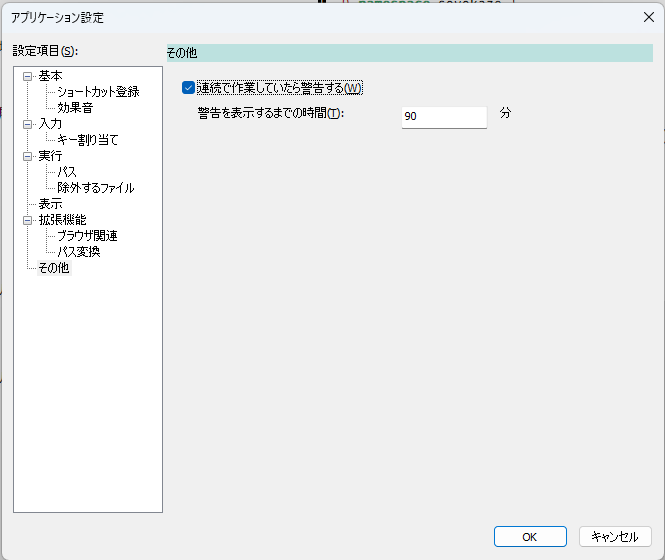
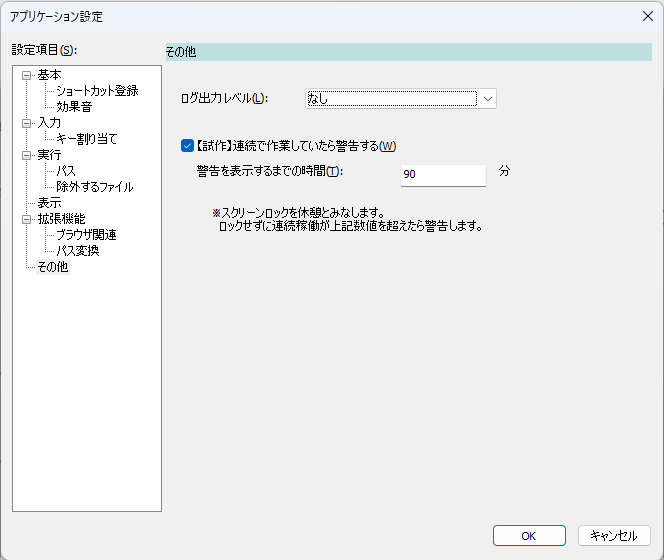
update help

diff --git a/doc/help.md b/doc/help.md
@@ -690,6 +690,20 @@ PCの性能によっては、途中で打ち切らないと、入力時のレス
 
 ![](../image/appsetting-other.png)
 
+
+- `ログ出力レベル`
+  - ログファイルへの出力対象とするログ種別を選択することができる
+  - 下のものほど情報量が多くなる
+
+|選択肢|説明|
+|--|----|
+|なし|ログを一切出力しない|
+|エラー|エラーログのみ出力する|
+|警告|エラーと警告ログを出力する|
+|通常|エラーと警告と通常ログを出力する|
+|デバッグ|デバッグ用出力も含めたすべてのログを出力する|
+
+
 - `連続で作業していたら警告する`
   - チェックすると、`警告を表示するまでの時間`で設定した時刻を超えて連続稼働(スクリーンロックを挟まずにPCを起動)した場合に警告メッセージを表示する
 - `警告を表示するまでの時間`
@@ -1336,6 +1350,13 @@ Edge/Chromeに対応している。
 `file:///C:/Windows/WindowsUpdate.log` → `C:\Windows\WindowsUpdate.log`
 
 ### その他の機能
+
+#### ログ出力レベル
+
+ログファイルに出力するメッセージのレベルを選択する。
+
+ログファイルは[設定ファイルの保存先](#設定ファイルの保存先)ディレクトリ内に`<アプリ名>.log`というファイル名で出力する。  
+アプリケーション設定の[その他](#その他)で出力対象とするログレベルを設定することができる。
 
 #### 【試作】連続稼働を警告する
 
